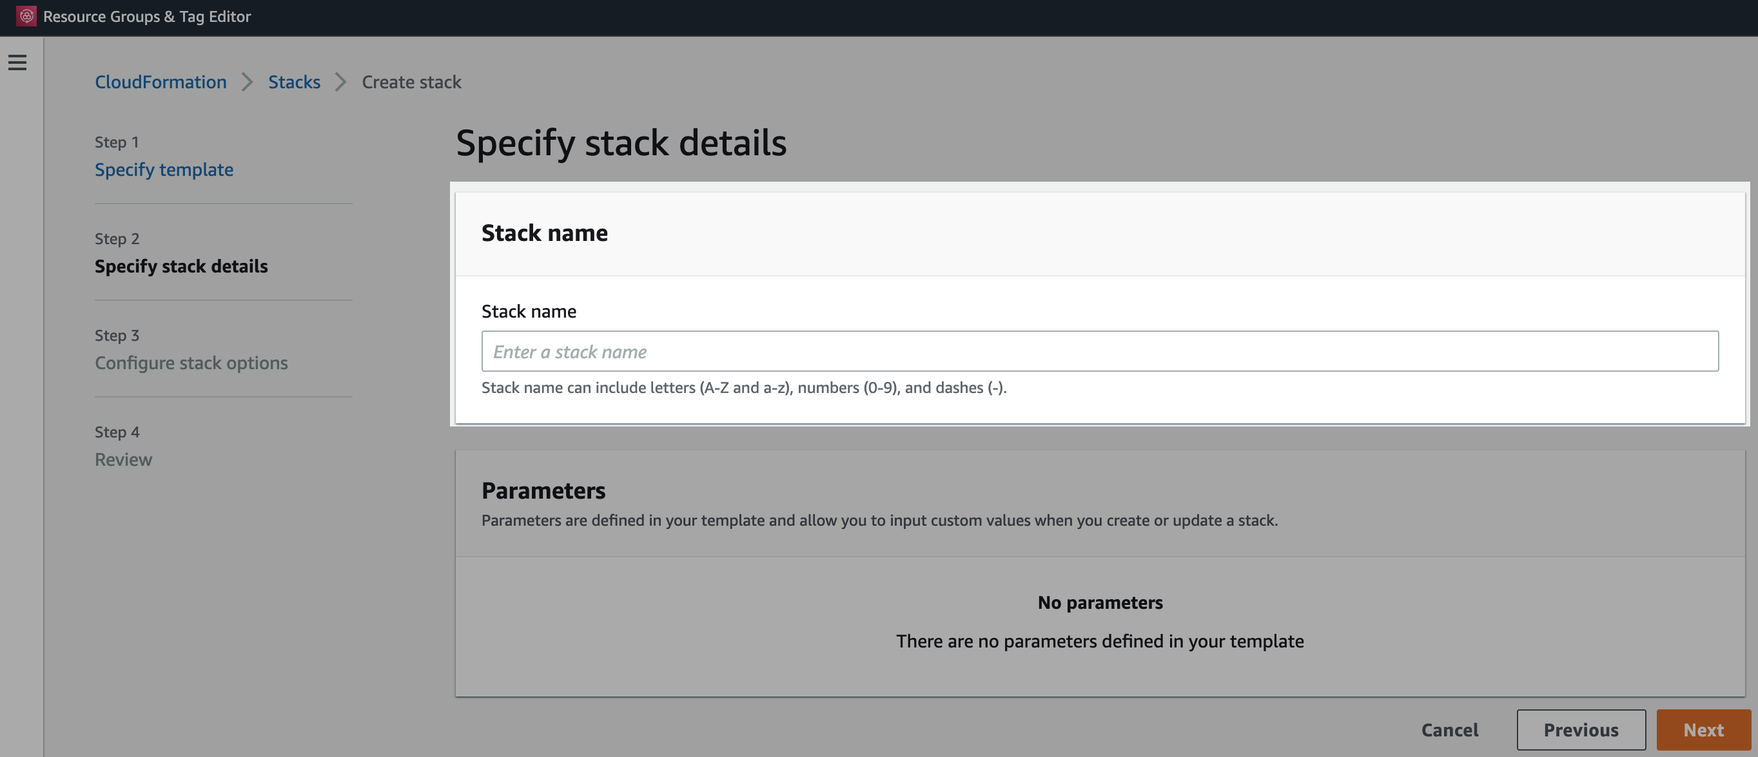
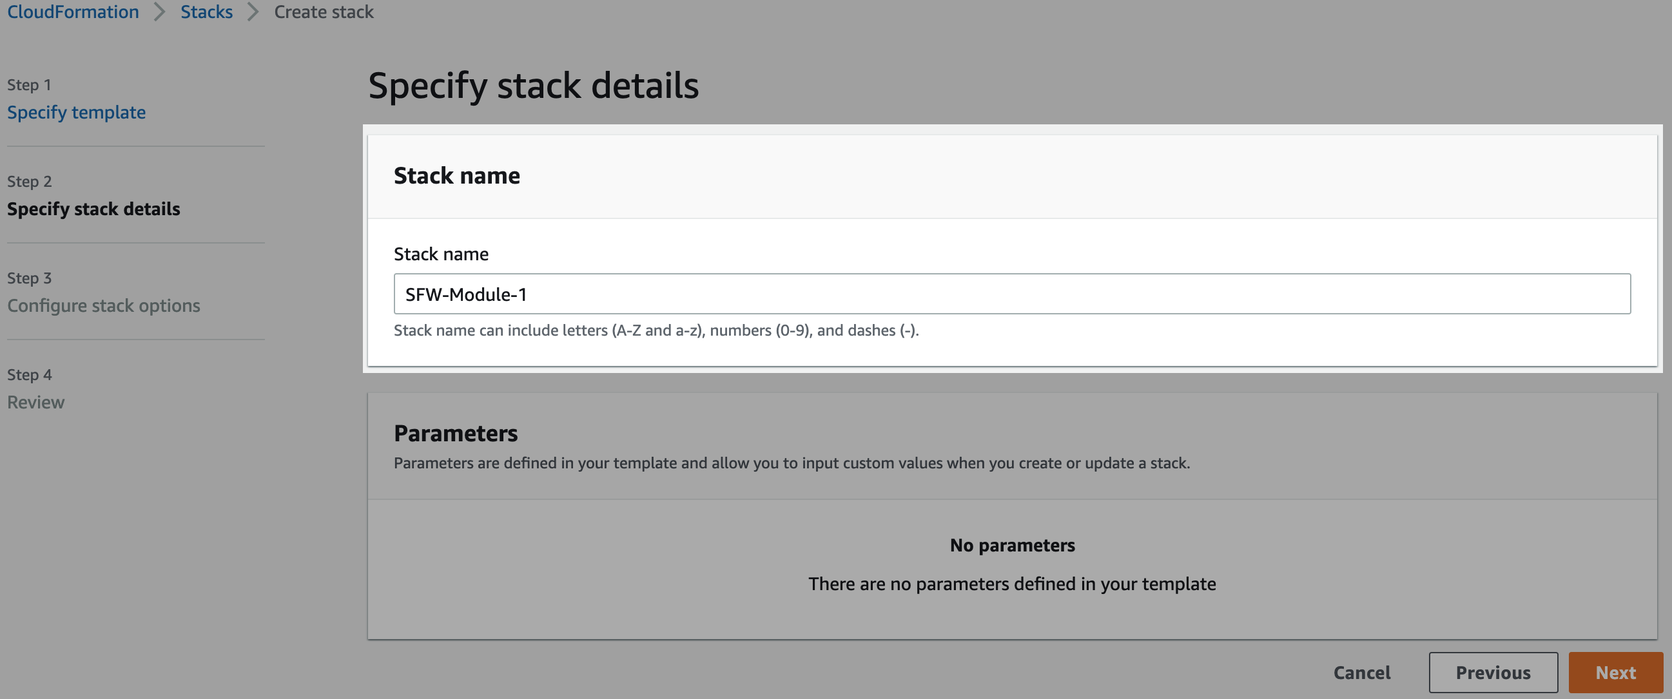
modified the setup with cloudformation template in public s3 bucket

diff --git a/content/module-8/step-1/index.en.md b/content/module-8/step-1/index.en.md
@@ -7,20 +7,18 @@ weight: 101
 Follow the instructions on this page only if you are trying this in your own account. Otherwise, [click here](../step-2) to get started
 :::
 
-- Run the command given below to download the CloudFormation template to your local machine.
+- Click on the `Launch` link against any of the regions in the table below to start the deployment.
+  | Region | Launch stack |
+  | ----------------------------------- | -------------------------------------------------------------------------------------------------------------------------------------------------------------------------------------------------------------------------------------------------------------: |
+  | **US East (N. Virginia)** us-east-1 | [Launch](https://console.aws.amazon.com/cloudformation/home?region=us-east-1#/stacks/create/template?stackName=SFW-Module-8&templateURL=https://serverless-stepfunctions-artifacts-17oiei2i27urc.s3.amazonaws.com/resources/module_8.yml) |
+  | **Europe (Ireland)** eu-west-1 | [Launch](https://console.aws.amazon.com/cloudformation/home?region=eu-west-1#/stacks/create/template?stackName=SFW-Module-8&templateURL=https://serverless-stepfunctions-artifacts-17oiei2i27urc.s3.amazonaws.com/resources/module_8.yml) |
+  | **Asia Pacific (Singapore)** ap-southeast-1 | [Launch](https://console.aws.amazon.com/cloudformation/home?region=ap-southeast-1#/stacks/create/template?stackName=SFW-Module-8&templateURL=https://serverless-stepfunctions-artifacts-17oiei2i27urc.s3.amazonaws.com/resources/module_8.yml) |
 
-```bash
-curl ':assetUrl{path="/resources/module_8.yml"}' --output module_8.yml
-```
-
-- Navigate to the [CloudFormation](https://console.aws.amazon.com/cloudformation/home?region=us-east-1) page in the AWS Console.
-- Click on _Create stack -> With new resources (standard)_ as shown below
-  ![CloudFormation home page](/static/img/setup/setup-cloudformation-homepage.png)
-- On the _Create stack_ page, select _Upload a template file_ and then click on `Choose File` button. Select the file saved from the previous step.
-  ![CloudFormation choose file](/static/img/setup/setup-cloudformation-choose-file.png)
-- On the _Specify stack details_ page, specify _Stack name_ e.g. `SFW-Module-8`
+- Location of the CloudFormation template will be auto populated in the `Amazon S3 URL` field as shown in the diagram below. Click `Next`
+  ![CloudFormation specify template](/static/img/setup/setup-cloudformation-specify-template.png)
+- On the _Specify stack details_ page, _Stack name_ would be auto populated to `SFW-Module-8`. You can specify a different name if you want.
   ![CloudFormation stack name](/static/img/setup/setup-cloudformation-stack-name.png)
-- Click _Next_ two times and on the last `Review` page, scroll to the bottom. Click the checkbox shown and then click `Create stack`.
+- Click _Next_ two times and on the last `Review` page, scroll to the bottom. Click the checkbox `if shown` and then click `Create stack`.
   ![CloudFormation create stack](/static/img/setup/setup-cloudformation-create-stack.png)
 - Wait till the stack shows `CREATE_COMPLETE` status.
   ![CloudFormation stack complete](/static/img/setup/setup-cloudformation-create-complete.png)

diff --git a/content/module-1/step-1/index.en.md b/content/module-1/step-1/index.en.md
@@ -7,20 +7,18 @@ weight: 31
 Follow the instructions on this page only if you are trying this in your own account. Otherwise, [click here](../step-2) to get started
 :::
 
-- Run the command given below to download the CloudFormation template to your local machine.
+- Click on the `Launch` link against any of the regions in the table below to start the deployment.
+  | Region | Launch stack |
+  | ----------------------------------- | -------------------------------------------------------------------------------------------------------------------------------------------------------------------------------------------------------------------------------------------------------------: |
+  | **US East (N. Virginia)** us-east-1 | [Launch](https://console.aws.amazon.com/cloudformation/home?region=us-east-1#/stacks/create/template?stackName=SFW-Module-1&templateURL=https://serverless-stepfunctions-artifacts-17oiei2i27urc.s3.amazonaws.com/resources/module_1.yml) |
+  | **Europe (Ireland)** eu-west-1 | [Launch](https://console.aws.amazon.com/cloudformation/home?region=eu-west-1#/stacks/create/template?stackName=SFW-Module-1&templateURL=https://serverless-stepfunctions-artifacts-17oiei2i27urc.s3.amazonaws.com/resources/module_1.yml) |
+  | **Asia Pacific (Singapore)** ap-southeast-1 | [Launch](https://console.aws.amazon.com/cloudformation/home?region=ap-southeast-1#/stacks/create/template?stackName=SFW-Module-1&templateURL=https://serverless-stepfunctions-artifacts-17oiei2i27urc.s3.amazonaws.com/resources/module_1.yml) |
 
-```bash
-curl ':assetUrl{path="/resources/module_1.yml"}' --output module_1.yml
-```
-
-- Navigate to the [CloudFormation](https://console.aws.amazon.com/cloudformation/home?region=us-east-1) page in the AWS Console.
-- Click on _Create stack -> With new resources (standard)_ as shown below
-  ![CloudFormation home page](/static/img/setup/setup-cloudformation-homepage.png)
-- On the _Create stack_ page, select _Upload a template file_ and then click on `Choose File` button. Select the file saved from the previous step.
-  ![CloudFormation choose file](/static/img/setup/setup-cloudformation-choose-file.png)
-- On the _Specify stack details_ page, specify _Stack name_ e.g. `SFW-Module-1`
+- Location of the CloudFormation template will be auto populated in the `Amazon S3 URL` field as shown in the diagram below. Click `Next`
+  ![CloudFormation specify template](/static/img/setup/setup-cloudformation-specify-template.png)
+- On the _Specify stack details_ page, _Stack name_ would be auto populated to `SFW-Module-1`. You can specify a different name if you want.
   ![CloudFormation stack name](/static/img/setup/setup-cloudformation-stack-name.png)
-- Click _Next_ two times and on the last `Review` page, scroll to the bottom. Click the checkbox shown and then click `Create stack`.
+- Click _Next_ two times and on the last `Review` page, scroll to the bottom. Click the checkbox `if shown` and then click `Create stack`.
   ![CloudFormation create stack](/static/img/setup/setup-cloudformation-create-stack.png)
 - Wait till the stack shows `CREATE_COMPLETE` status.
   ![CloudFormation stack complete](/static/img/setup/setup-cloudformation-create-complete.png)

diff --git a/content/module-2/step-1/index.en.md b/content/module-2/step-1/index.en.md
@@ -7,20 +7,18 @@ weight: 41
 Follow the instructions on this page only if you are trying this in your own account. Otherwise, [click here](../step-2) to get started
 :::
 
-- Run the command given below to download the CloudFormation template to your local machine.
+- Click on the `Launch` link against any of the regions in the table below to start the deployment.
+  | Region | Launch stack |
+  | ----------------------------------- | -------------------------------------------------------------------------------------------------------------------------------------------------------------------------------------------------------------------------------------------------------------: |
+  | **US East (N. Virginia)** us-east-1 | [Launch](https://console.aws.amazon.com/cloudformation/home?region=us-east-1#/stacks/create/template?stackName=SFW-Module-2&templateURL=https://serverless-stepfunctions-artifacts-17oiei2i27urc.s3.amazonaws.com/resources/module_2.yml) |
+  | **Europe (Ireland)** eu-west-1 | [Launch](https://console.aws.amazon.com/cloudformation/home?region=eu-west-1#/stacks/create/template?stackName=SFW-Module-2&templateURL=https://serverless-stepfunctions-artifacts-17oiei2i27urc.s3.amazonaws.com/resources/module_2.yml) |
+  | **Asia Pacific (Singapore)** ap-southeast-1 | [Launch](https://console.aws.amazon.com/cloudformation/home?region=ap-southeast-1#/stacks/create/template?stackName=SFW-Module-2&templateURL=https://serverless-stepfunctions-artifacts-17oiei2i27urc.s3.amazonaws.com/resources/module_2.yml) |
 
-```bash
-curl ':assetUrl{path="/resources/module_2.yml"}' --output module_2.yml
-```
-
-- Navigate to the [CloudFormation](https://console.aws.amazon.com/cloudformation/home?region=us-east-1) page in the AWS Console.
-- Click on _Create stack -> With new resources (standard)_ as shown below
-  ![CloudFormation home page](/static/img/setup/setup-cloudformation-homepage.png)
-- On the _Create stack_ page, select _Upload a template file_ and then click on `Choose File` button. Select the file saved from the previous step.
-  ![CloudFormation choose file](/static/img/setup/setup-cloudformation-choose-file.png)
-- On the _Specify stack details_ page, specify _Stack name_ e.g. `SFW-Module-2`
+- Location of the CloudFormation template will be auto populated in the `Amazon S3 URL` field as shown in the diagram below. Click `Next`
+  ![CloudFormation specify template](/static/img/setup/setup-cloudformation-specify-template.png)
+- On the _Specify stack details_ page, _Stack name_ would be auto populated to `SFW-Module-2`. You can specify a different name if you want.
   ![CloudFormation stack name](/static/img/setup/setup-cloudformation-stack-name.png)
-- Click _Next_ two times and on the last `Review` page, scroll to the bottom. Click the checkbox shown and then click `Create stack`.
+- Click _Next_ two times and on the last `Review` page, scroll to the bottom. Click the checkbox `if shown` and then click `Create stack`.
   ![CloudFormation create stack](/static/img/setup/setup-cloudformation-create-stack.png)
 - Wait till the stack shows `CREATE_COMPLETE` status.
   ![CloudFormation stack complete](/static/img/setup/setup-cloudformation-create-complete.png)

diff --git a/content/module-3/step-1/index.en.md b/content/module-3/step-1/index.en.md
@@ -7,20 +7,18 @@ weight: 51
 Follow the instructions on this page only if you are trying this in your own account. Otherwise, [click here](../step-2) to get started
 :::
 
-- Run the command given below to download the CloudFormation template to your local machine.
+- Click on the `Launch` link against any of the regions in the table below to start the deployment.
+  | Region | Launch stack |
+  | ----------------------------------- | -------------------------------------------------------------------------------------------------------------------------------------------------------------------------------------------------------------------------------------------------------------: |
+  | **US East (N. Virginia)** us-east-1 | [Launch](https://console.aws.amazon.com/cloudformation/home?region=us-east-1#/stacks/create/template?stackName=SFW-Module-3&templateURL=https://serverless-stepfunctions-artifacts-17oiei2i27urc.s3.amazonaws.com/resources/module_3.yml) |
+  | **Europe (Ireland)** eu-west-1 | [Launch](https://console.aws.amazon.com/cloudformation/home?region=eu-west-1#/stacks/create/template?stackName=SFW-Module-3&templateURL=https://serverless-stepfunctions-artifacts-17oiei2i27urc.s3.amazonaws.com/resources/module_3.yml) |
+  | **Asia Pacific (Singapore)** ap-southeast-1 | [Launch](https://console.aws.amazon.com/cloudformation/home?region=ap-southeast-1#/stacks/create/template?stackName=SFW-Module-3&templateURL=https://serverless-stepfunctions-artifacts-17oiei2i27urc.s3.amazonaws.com/resources/module_3.yml) |
 
-```bash
-curl ':assetUrl{path="/resources/module_3.yml"}' --output module_3.yml
-```
-
-- Navigate to the [CloudFormation](https://console.aws.amazon.com/cloudformation/home?region=us-east-1) page in the AWS Console.
-- Click on _Create stack -> With new resources (standard)_ as shown below
-  ![CloudFormation home page](/static/img/setup/setup-cloudformation-homepage.png)
-- On the _Create stack_ page, select _Upload a template file_ and then click on `Choose File` button. Select the file saved from the previous step.
-  ![CloudFormation choose file](/static/img/setup/setup-cloudformation-choose-file.png)
-- On the _Specify stack details_ page, specify _Stack name_ e.g. `SFW-Module-3`
+- Location of the CloudFormation template will be auto populated in the `Amazon S3 URL` field as shown in the diagram below. Click `Next`
+  ![CloudFormation specify template](/static/img/setup/setup-cloudformation-specify-template.png)
+- On the _Specify stack details_ page, _Stack name_ would be auto populated to `SFW-Module-3`. You can specify a different name if you want.
   ![CloudFormation stack name](/static/img/setup/setup-cloudformation-stack-name.png)
-- Click _Next_ two times and on the last `Review` page, scroll to the bottom. Click the checkbox shown and then click `Create stack`.
+- Click _Next_ two times and on the last `Review` page, scroll to the bottom. Click the checkbox `if shown` and then click `Create stack`.
   ![CloudFormation create stack](/static/img/setup/setup-cloudformation-create-stack.png)
 - Wait till the stack shows `CREATE_COMPLETE` status.
   ![CloudFormation stack complete](/static/img/setup/setup-cloudformation-create-complete.png)

diff --git a/content/module-4/step-1/index.en.md b/content/module-4/step-1/index.en.md
@@ -7,20 +7,18 @@ weight: 61
 Follow the instructions on this page only if you are trying this in your own account. Otherwise, [click here](../step-2) to get started
 :::
 
-- Run the command given below to download the CloudFormation template to your local machine.
+- Click on the `Launch` link against any of the regions in the table below to start the deployment.
+  | Region | Launch stack |
+  | ----------------------------------- | -------------------------------------------------------------------------------------------------------------------------------------------------------------------------------------------------------------------------------------------------------------: |
+  | **US East (N. Virginia)** us-east-1 | [Launch](https://console.aws.amazon.com/cloudformation/home?region=us-east-1#/stacks/create/template?stackName=SFW-Module-4&templateURL=https://serverless-stepfunctions-artifacts-17oiei2i27urc.s3.amazonaws.com/resources/module_4.yml) |
+  | **Europe (Ireland)** eu-west-1 | [Launch](https://console.aws.amazon.com/cloudformation/home?region=eu-west-1#/stacks/create/template?stackName=SFW-Module-4&templateURL=https://serverless-stepfunctions-artifacts-17oiei2i27urc.s3.amazonaws.com/resources/module_4.yml) |
+  | **Asia Pacific (Singapore)** ap-southeast-1 | [Launch](https://console.aws.amazon.com/cloudformation/home?region=ap-southeast-1#/stacks/create/template?stackName=SFW-Module-4&templateURL=https://serverless-stepfunctions-artifacts-17oiei2i27urc.s3.amazonaws.com/resources/module_4.yml) |
 
-```bash
-curl ':assetUrl{path="/resources/module_4.yml"}' --output module_4.yml
-```
-
-- Navigate to the [CloudFormation](https://console.aws.amazon.com/cloudformation/home?region=us-east-1) page in the AWS Console.
-- Click on _Create stack -> With new resources (standard)_ as shown below
-  ![CloudFormation home page](/static/img/setup/setup-cloudformation-homepage.png)
-- On the _Create stack_ page, select _Upload a template file_ and then click on `Choose File` button. Select the file saved from the previous step.
-  ![CloudFormation choose file](/static/img/setup/setup-cloudformation-choose-file.png)
-- On the _Specify stack details_ page, specify _Stack name_ e.g. `SFW-Module-4`
+- Location of the CloudFormation template will be auto populated in the `Amazon S3 URL` field as shown in the diagram below. Click `Next`
+  ![CloudFormation specify template](/static/img/setup/setup-cloudformation-specify-template.png)
+- On the _Specify stack details_ page, _Stack name_ would be auto populated to `SFW-Module-4`. You can specify a different name if you want.
   ![CloudFormation stack name](/static/img/setup/setup-cloudformation-stack-name.png)
-- Click _Next_ two times and on the last `Review` page, scroll to the bottom. Click the checkbox shown and then click `Create stack`.
+- Click _Next_ two times and on the last `Review` page, scroll to the bottom. Click the checkbox `if shown` and then click `Create stack`.
   ![CloudFormation create stack](/static/img/setup/setup-cloudformation-create-stack.png)
 - Wait till the stack shows `CREATE_COMPLETE` status.
   ![CloudFormation stack complete](/static/img/setup/setup-cloudformation-create-complete.png)

diff --git a/content/module-5/step-1/index.en.md b/content/module-5/step-1/index.en.md
@@ -7,20 +7,18 @@ weight: 71
 Follow the instructions on this page only if you are trying this in your own account. Otherwise, [click here](../step-2) to get started
 :::
 
-- Run the command given below to download the CloudFormation template to your local machine.
+- Click on the `Launch` link against any of the regions in the table below to start the deployment.
+  | Region | Launch stack |
+  | ----------------------------------- | -------------------------------------------------------------------------------------------------------------------------------------------------------------------------------------------------------------------------------------------------------------: |
+  | **US East (N. Virginia)** us-east-1 | [Launch](https://console.aws.amazon.com/cloudformation/home?region=us-east-1#/stacks/create/template?stackName=SFW-Module-5&templateURL=https://serverless-stepfunctions-artifacts-17oiei2i27urc.s3.amazonaws.com/resources/module_5.yml) |
+  | **Europe (Ireland)** eu-west-1 | [Launch](https://console.aws.amazon.com/cloudformation/home?region=eu-west-1#/stacks/create/template?stackName=SFW-Module-5&templateURL=https://serverless-stepfunctions-artifacts-17oiei2i27urc.s3.amazonaws.com/resources/module_5.yml) |
+  | **Asia Pacific (Singapore)** ap-southeast-1 | [Launch](https://console.aws.amazon.com/cloudformation/home?region=ap-southeast-1#/stacks/create/template?stackName=SFW-Module-5&templateURL=https://serverless-stepfunctions-artifacts-17oiei2i27urc.s3.amazonaws.com/resources/module_5.yml) |
 
-```bash
-curl ':assetUrl{path="/resources/module_5.yml"}' --output module_5.yml
-```
-
-- Navigate to the [CloudFormation](https://console.aws.amazon.com/cloudformation/home?region=us-east-1) page in the AWS Console.
-- Click on _Create stack -> With new resources (standard)_ as shown below
-  ![CloudFormation home page](/static/img/setup/setup-cloudformation-homepage.png)
-- On the _Create stack_ page, select _Upload a template file_ and then click on `Choose File` button. Select the file saved from the previous step.
-  ![CloudFormation choose file](/static/img/setup/setup-cloudformation-choose-file.png)
-- On the _Specify stack details_ page, specify _Stack name_ e.g. `SFW-Module-5`
+- Location of the CloudFormation template will be auto populated in the `Amazon S3 URL` field as shown in the diagram below. Click `Next`
+  ![CloudFormation specify template](/static/img/setup/setup-cloudformation-specify-template.png)
+- On the _Specify stack details_ page, _Stack name_ would be auto populated to `SFW-Module-5`. You can specify a different name if you want.
   ![CloudFormation stack name](/static/img/setup/setup-cloudformation-stack-name.png)
-- Click _Next_ two times and on the last `Review` page, scroll to the bottom. Click the checkbox shown and then click `Create stack`.
+- Click _Next_ two times and on the last `Review` page, scroll to the bottom. Click the checkbox `if shown` and then click `Create stack`.
   ![CloudFormation create stack](/static/img/setup/setup-cloudformation-create-stack.png)
 - Wait till the stack shows `CREATE_COMPLETE` status.
   ![CloudFormation stack complete](/static/img/setup/setup-cloudformation-create-complete.png)

diff --git a/content/module-6/step-1/index.en.md b/content/module-6/step-1/index.en.md
@@ -7,20 +7,18 @@ weight: 81
 Follow the instructions on this page only if you are trying this in your own account. Otherwise, [click here](../step-2) to get started
 :::
 
-- Run the command given below to download the CloudFormation template to your local machine.
+- Click on the `Launch` link against any of the regions in the table below to start the deployment.
+  | Region | Launch stack |
+  | ----------------------------------- | -------------------------------------------------------------------------------------------------------------------------------------------------------------------------------------------------------------------------------------------------------------: |
+  | **US East (N. Virginia)** us-east-1 | [Launch](https://console.aws.amazon.com/cloudformation/home?region=us-east-1#/stacks/create/template?stackName=SFW-Module-6&templateURL=https://serverless-stepfunctions-artifacts-17oiei2i27urc.s3.amazonaws.com/resources/module_6.yml) |
+  | **Europe (Ireland)** eu-west-1 | [Launch](https://console.aws.amazon.com/cloudformation/home?region=eu-west-1#/stacks/create/template?stackName=SFW-Module-6&templateURL=https://serverless-stepfunctions-artifacts-17oiei2i27urc.s3.amazonaws.com/resources/module_6.yml) |
+  | **Asia Pacific (Singapore)** ap-southeast-1 | [Launch](https://console.aws.amazon.com/cloudformation/home?region=ap-southeast-1#/stacks/create/template?stackName=SFW-Module-6&templateURL=https://serverless-stepfunctions-artifacts-17oiei2i27urc.s3.amazonaws.com/resources/module_6.yml) |
 
-```bash
-curl ':assetUrl{path="/resources/module_6.yml"}' --output module_6.yml
-```
-
-- Navigate to the [CloudFormation](https://console.aws.amazon.com/cloudformation/home?region=us-east-1) page in the AWS Console.
-- Click on _Create stack -> With new resources (standard)_ as shown below
-  ![CloudFormation home page](/static/img/setup/setup-cloudformation-homepage.png)
-- On the _Create stack_ page, select _Upload a template file_ and then click on `Choose File` button. Select the file saved from the previous step.
-  ![CloudFormation choose file](/static/img/setup/setup-cloudformation-choose-file.png)
-- On the _Specify stack details_ page, specify _Stack name_ e.g. `SFW-Module-6`
+- Location of the CloudFormation template will be auto populated in the `Amazon S3 URL` field as shown in the diagram below. Click `Next`
+  ![CloudFormation specify template](/static/img/setup/setup-cloudformation-specify-template.png)
+- On the _Specify stack details_ page, _Stack name_ would be auto populated to `SFW-Module-6`. You can specify a different name if you want.
   ![CloudFormation stack name](/static/img/setup/setup-cloudformation-stack-name.png)
-- Click _Next_ two times and on the last `Review` page, scroll to the bottom. Click the checkbox shown and then click `Create stack`.
+- Click _Next_ two times and on the last `Review` page, scroll to the bottom. Click the checkbox `if shown` and then click `Create stack`.
   ![CloudFormation create stack](/static/img/setup/setup-cloudformation-create-stack.png)
 - Wait till the stack shows `CREATE_COMPLETE` status.
   ![CloudFormation stack complete](/static/img/setup/setup-cloudformation-create-complete.png)

diff --git a/content/module-7/step-1/index.en.md b/content/module-7/step-1/index.en.md
@@ -7,20 +7,18 @@ weight: 91
 Follow the instructions on this page only if you are trying this in your own account. Otherwise, [click here](../step-2) to get started
 :::
 
-- Run the command given below to download the CloudFormation template to your local machine.
+- Click on the `Launch` link against any of the regions in the table below to start the deployment.
+  | Region | Launch stack |
+  | ----------------------------------- | -------------------------------------------------------------------------------------------------------------------------------------------------------------------------------------------------------------------------------------------------------------: |
+  | **US East (N. Virginia)** us-east-1 | [Launch](https://console.aws.amazon.com/cloudformation/home?region=us-east-1#/stacks/create/template?stackName=SFW-Module-7&templateURL=https://serverless-stepfunctions-artifacts-17oiei2i27urc.s3.amazonaws.com/resources/module_7.yml) |
+  | **Europe (Ireland)** eu-west-1 | [Launch](https://console.aws.amazon.com/cloudformation/home?region=eu-west-1#/stacks/create/template?stackName=SFW-Module-7&templateURL=https://serverless-stepfunctions-artifacts-17oiei2i27urc.s3.amazonaws.com/resources/module_7.yml) |
+  | **Asia Pacific (Singapore)** ap-southeast-1 | [Launch](https://console.aws.amazon.com/cloudformation/home?region=ap-southeast-1#/stacks/create/template?stackName=SFW-Module-7&templateURL=https://serverless-stepfunctions-artifacts-17oiei2i27urc.s3.amazonaws.com/resources/module_7.yml) |
 
-```bash
-curl ':assetUrl{path="/resources/module_7.yml"}' --output module_7.yml
-```
-
-- Navigate to the [CloudFormation](https://console.aws.amazon.com/cloudformation/home?region=us-east-1) page in the AWS Console.
-- Click on _Create stack -> With new resources (standard)_ as shown below
-  ![CloudFormation home page](/static/img/setup/setup-cloudformation-homepage.png)
-- On the _Create stack_ page, select _Upload a template file_ and then click on `Choose File` button. Select the file saved from the previous step.
-  ![CloudFormation choose file](/static/img/setup/setup-cloudformation-choose-file.png)
-- On the _Specify stack details_ page, specify _Stack name_ e.g. `SFW-Module-7`
+- Location of the CloudFormation template will be auto populated in the `Amazon S3 URL` field as shown in the diagram below. Click `Next`
+  ![CloudFormation specify template](/static/img/setup/setup-cloudformation-specify-template.png)
+- On the _Specify stack details_ page, _Stack name_ would be auto populated to `SFW-Module-7`. You can specify a different name if you want.
   ![CloudFormation stack name](/static/img/setup/setup-cloudformation-stack-name.png)
-- Click _Next_ two times and on the last `Review` page, scroll to the bottom. Click the checkbox shown and then click `Create stack`.
+- Click _Next_ two times and on the last `Review` page, scroll to the bottom. Click the checkbox `if shown` and then click `Create stack`.
   ![CloudFormation create stack](/static/img/setup/setup-cloudformation-create-stack.png)
 - Wait till the stack shows `CREATE_COMPLETE` status.
   ![CloudFormation stack complete](/static/img/setup/setup-cloudformation-create-complete.png)
